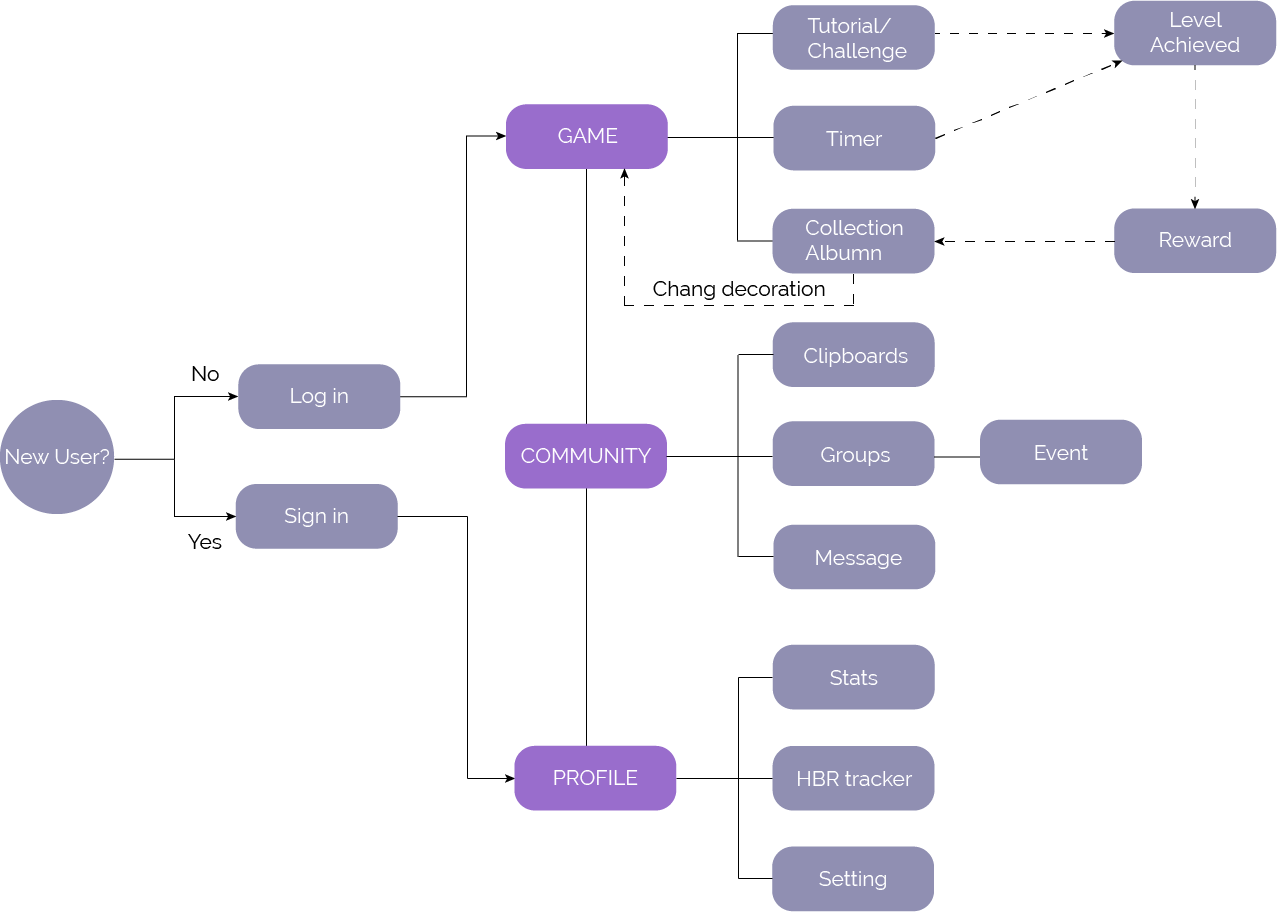
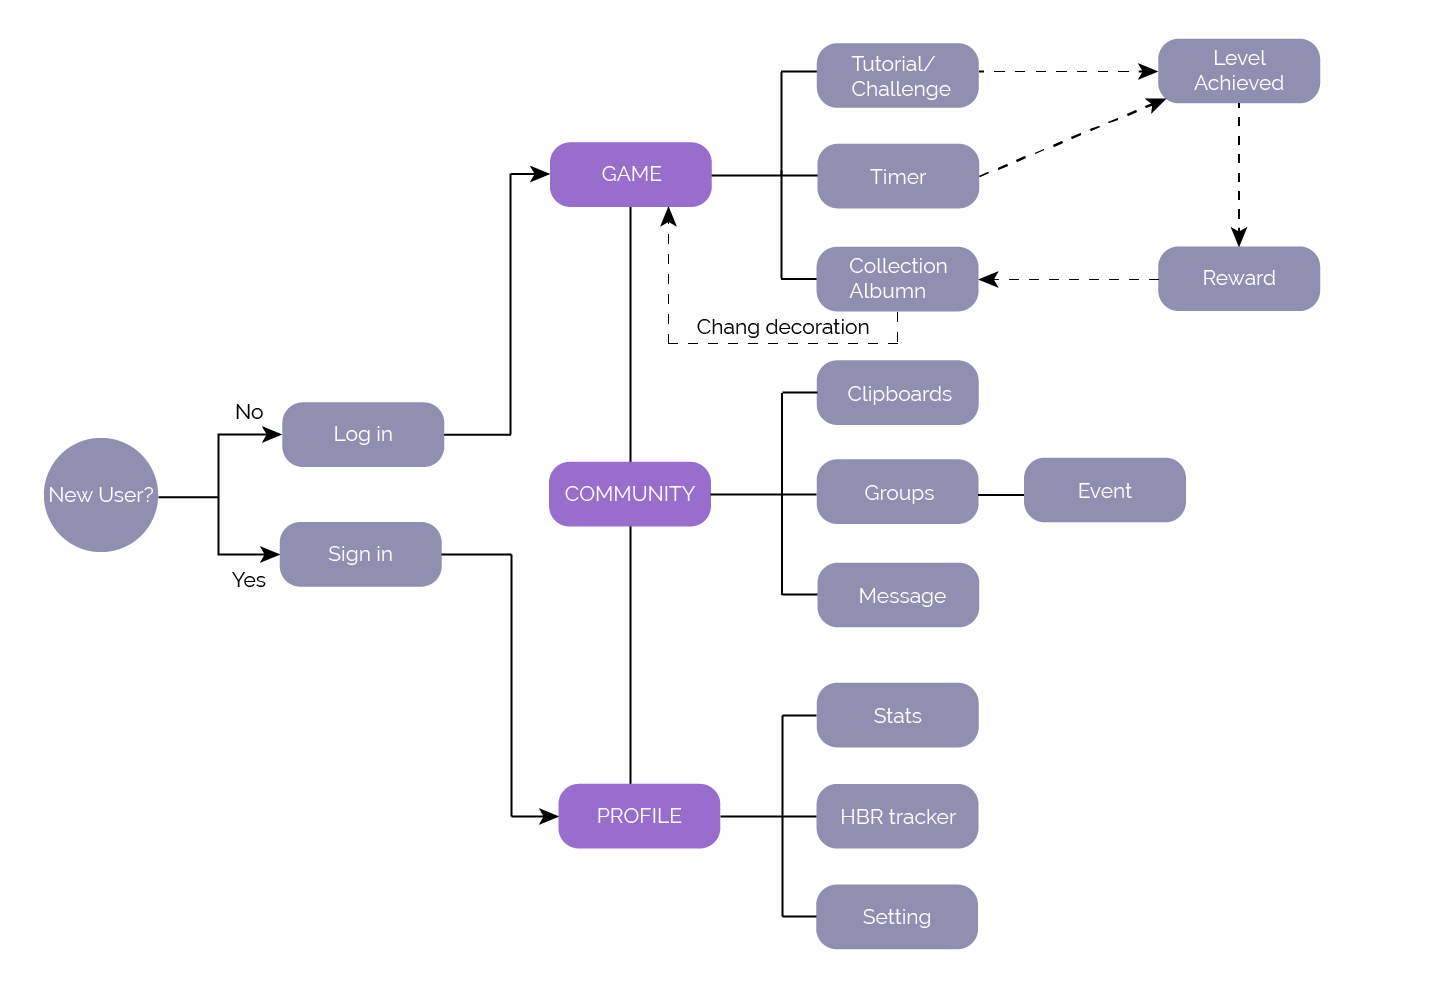
changed IA pic and navigation font color

diff --git a/project1.html b/project1.html
@@ -188,7 +188,7 @@
         <section id="IA">
             <h3>INFORMATION ARCHITECTURE</h3>
             <div class="IA_pic">
-                <img id="IAflow" src="pic/MeUni_IA.png" alt="Information Architecture" width="750px;">
+                <img id="IAflow" src="pic/MeUni_IA.png" alt="Information Architecture" width="800px;">
             </div>
                 </section>
         <!--Next Project-->

diff --git a/my_stylesheet.css b/my_stylesheet.css
@@ -60,7 +60,7 @@ li{
   left: 51%;
   right: 51%;
   bottom: 0;
-  background: #2E33A3;
+  background: rgb(72,51,153);
   height: 1px;
   -webkit-transition-property: left, right;
   transition-property: left, right;
@@ -212,7 +212,7 @@ h4#MeUni_title{
 }
 p#MeUni_briefintro{
     padding-left: 15px;
-    color:#2E33A3;
+    color:rgb(72.51.153);
 }
 /*About_Me*/
 /*Main Content begins!*/
